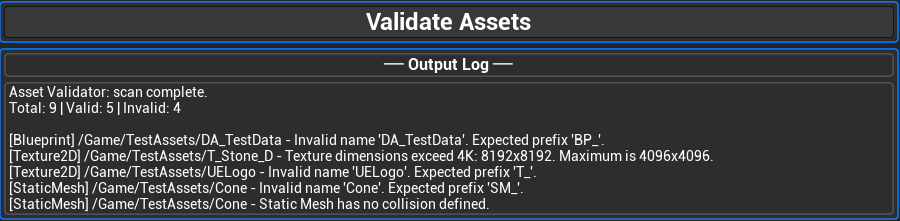
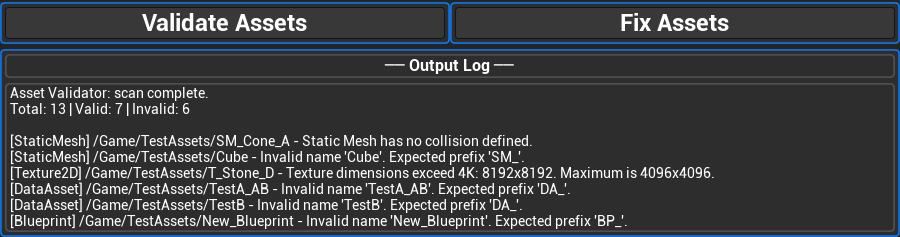
Update docs and screenshot for batch processor and suffix validation

Changed region(s): [[0.0, 0.0, 1.0, 1.0], [0.1556, 0.0543, 0.3422, 0.1357], [0.6844, 0.0543, 0.8089, 0.1357]]

diff --git a/README.md b/README.md
@@ -10,11 +10,13 @@ Designed to enforce naming conventions and detect common pipeline issues directl
 ---
 
 ## Features (Current)
-- **Naming Convention Validation** — Detects missing asset prefixes (`SM_`, `T_`, `M_`, `DA_`, `BP_`, `MI_`)
+- **Naming Convention Validation** — Detects missing asset prefixes (`SM_`, `T_`, `M_`, `DA_`, `BP_`, `MI_`) and invalid numeric suffixes
+- **DataAsset Subclass Detection** — Correctly identifies Blueprint-based DataAsset subclasses in the asset registry
 - **Texture Dimension Validation** — Checks that textures do not exceed 4096x4096 resolution
 - **Collision Validation** — Ensures Static Meshes have collision data defined
+- **Batch Asset Processor** — Automatically renames assets to fix naming issues (prefix and suffix)
 - **Asset Registry Scanning** — Fast, non-destructive scanning using Unreal's AssetRegistry API
-- **One-click Validation** — Integrated Editor Utility Widget for easy access
+- **One-click Validation & Fix** — Integrated Editor Utility Widget with Validate and Fix Assets buttons
 
 ---
 
@@ -26,8 +28,9 @@ Designed to enforce naming conventions and detect common pipeline issues directl
 
 ## Architecture
 - **UI Layer:** Editor Utility Widget (Blueprint)
-- **Logic Layer:** Python (Unreal Python API)
-- **Flow:** Button click → Python validation → Results display in UI widget
+- **Validation Layer:** Python — `asset_validator.py` (Unreal Python API)
+- **Processing Layer:** Python — `batch_processor.py` (Unreal Python API)
+- **Flow:** Validate button → scan & report issues → Fix Assets button → batch rename/fix
 
 ---
 

diff --git a/SETUP.md b/SETUP.md
@@ -9,7 +9,8 @@
 ### 1. Open the Validator Widget
 1. In Unreal Editor, navigate to **Content Browser**
 2. Open `EUW_AssetValidator` (Editor Utility Widget)
-3. Click **"Validate Asset"**
+3. Click **"Validate Asset"** to scan for issues
+4. Click **"Fix Assets"** to automatically rename assets with naming issues
 
 Results display in the widget's text box.
 
@@ -23,17 +24,18 @@ Run the validator to see detected issues.
 
 ### Setup Details
 
-The Python validation logic is located in:
+The Python scripts are located in:
 ```
-Scripts/asset_validator.py
+Scripts/asset_validator.py    — Validation logic
+Scripts/batch_processor.py    — Batch fix/rename logic
 ```
 
 The Blueprint Editor Utility Widget:
 ```
-Content/EUW_AssetValidator.uasset
+Content/Tools/AssetValidator/UI/EUW_AssetValidator.uasset
 ```
 
-The widget calls `asset_validator.validate_project_assets()` and displays results in its text display.
+The widget calls `asset_validator.validate_project_assets()` to scan and `batch_processor.process_project_assets()` to fix issues.
 
 ---
 
@@ -45,7 +47,11 @@ The widget calls `asset_validator.validate_project_assets()` and displays result
 - **Material** → `M_*`
 - **Blueprint** → `BP_*`
 - **Material Instance** → `MI_*`
-- **DataAsset** → `DA_*`
+- **DataAsset** → `DA_*` (including Blueprint-based subclasses)
+
+### Naming Suffixes
+- Numeric suffixes (e.g. `_01`, `_02`) are flagged as invalid
+- Alphabetic variant suffixes (e.g. `_A`, `_B`, `_AB`) are valid and preserved during fixes
 
 ### Texture Dimensions
 - Maximum: **4096x4096 pixels**
